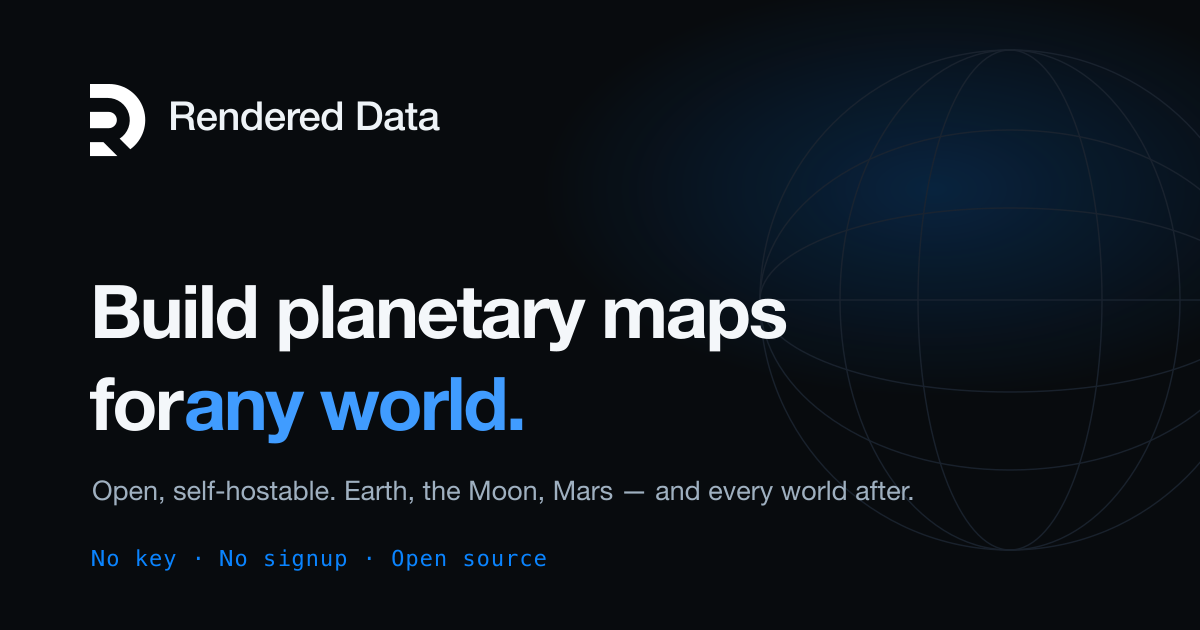
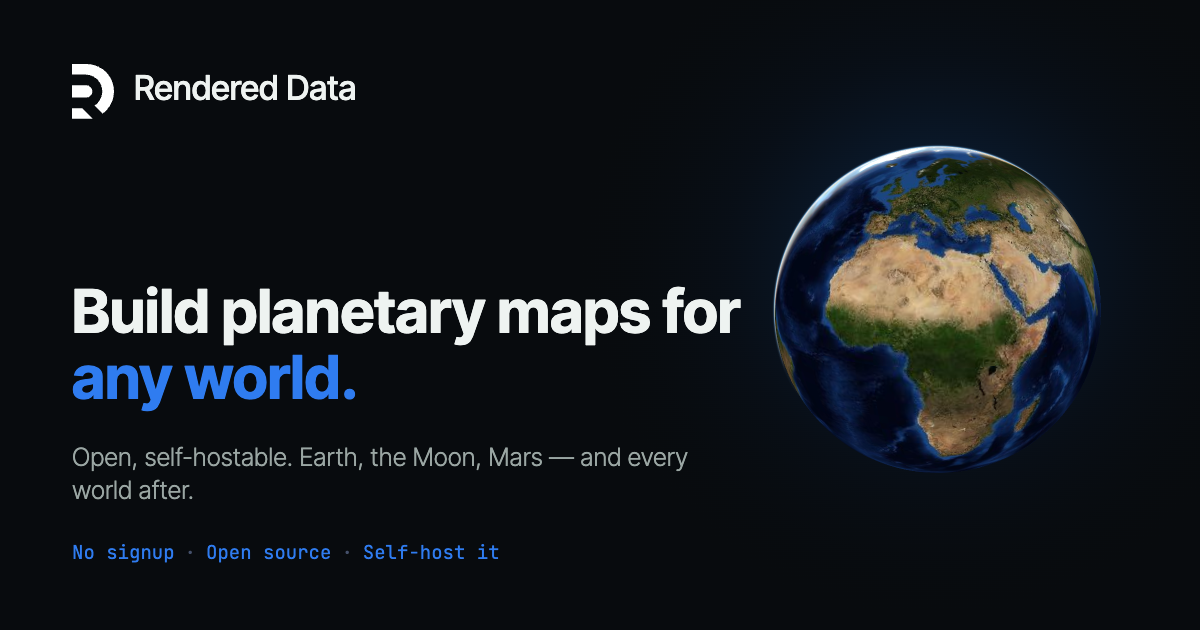
Regenerate og-image.png from updated source; track og-image.html
The social card source (og-image.html) had been edited since the PNG was
last generated, leaving the committed image stale. Re-rendered the card
in-browser (live globe + starfield composited with the DOM text/logo) and
saved the fresh 1200x630 PNG. Also add og-image.html to version control as
the canonical source for future regenerations.

diff --git a/og-image.html b/og-image.html
@@ -1,0 +1,125 @@
+<!doctype html>
+<html lang="en">
+<head>
+<meta charset="utf-8">
+<title>og-image</title>
+<style>
+  @font-face { font-family: "Inter Tight"; src: url("design/fonts/InterTight-var.woff2") format("woff2"); font-weight: 100 900; font-style: normal; font-display: block; }
+  @font-face { font-family: "JetBrains Mono"; src: url("design/fonts/JetBrainsMono-var.woff2") format("woff2"); font-weight: 100 800; font-style: normal; font-display: block; }
+  * { margin: 0; padding: 0; box-sizing: border-box; }
+  html, body { width: 1200px; height: 630px; overflow: hidden; background: #fff; }
+  .maplibregl-ctrl, .maplibregl-control-container { display: none !important; }
+  #card {
+    position: relative; width: 1200px; height: 630px; background: #080b0e; overflow: hidden;
+    font-family: "Inter Tight", system-ui, sans-serif; color: #eef3f1;
+    background-image: radial-gradient(60% 80% at 78% 42%, rgba(18,70,130,.55) 0%, rgba(10,30,60,.18) 42%, rgba(8,11,14,0) 72%);
+  }
+  #hero-globe { position: absolute; top: 120px; right: 72px; width: 380px; height: 380px; }
+  #content { position: absolute; inset: 0; padding: 64px 72px; display: flex; flex-direction: column; }
+  .brand { display: flex; align-items: center; gap: 20px; }
+  .brand svg { width: 42px; height: auto; display: block; }
+  .brand .name { font-size: 34px; font-weight: 500; letter-spacing: -.01em; }
+  h1 { margin-top: auto; font-size: 60px; line-height: 1.1; font-weight: 700; letter-spacing: -.03em; white-space: nowrap; }
+  h1 .accent { color: #2f7cf0; }
+  .lede { margin-top: 26px; font-size: 25px; font-weight: 300; color: #9aa6a3; max-width: 640px; letter-spacing: -.01em; line-height: 1.3; }
+  .foot { margin-top: 32px; font-family: "JetBrains Mono", monospace; font-size: 19px; letter-spacing: .04em; color: #2f7cf0; }
+  .foot .dot { color: #44506a; margin: 0 10px; }
+</style>
+</head>
+<body>
+<div id="card">
+  <div id="hero-globe" aria-hidden="true"></div>
+  <div id="content">
+    <div class="brand">
+      <svg viewBox="0 0 325 424" fill="#fff" aria-hidden="true"><path d="M0 0H113A212 212 0 0 1 236.973 383.973L174.332 321.332A130 130 0 0 0 104 82H0ZM0 164H110A48 48 0 0 1 110 260H0ZM0 342H79L161 424H0Z"/></svg>
+      <span class="name">Rendered Data</span>
+    </div>
+    <h1>Build planetary maps for<br><span class="accent">any world.</span></h1>
+    <p class="lede">Open, self-hostable. Earth, the Moon, Mars — and every world after.</p>
+    <p class="foot">No signup<span class="dot">·</span>Open source<span class="dot">·</span>Self-host it</p>
+  </div>
+</div>
+<script type="module">
+  import {GlobeMap} from './src/maps.js';
+  await document.fonts.ready;
+  const map = new GlobeMap({container: 'hero-globe', body: 'earth', base: 'bluemarble',
+      controls: false, background: 'transparent',
+      mapOptions: {preserveDrawingBuffer: true, canvasContextAttributes: {preserveDrawingBuffer: true}}});
+  await map.ready;
+  map.jumpTo({center: [18, 16], zoom: 1.35});
+  map.addStarfield({hotspots: false, constellations: false, grid: false, sun: false, moon: false, planets: false});
+  await new Promise(r => setTimeout(r, 1200));   // let imagery + stars settle
+  map.redraw?.(); map.maplibre?.triggerRepaint?.();
+  await new Promise(r => setTimeout(r, 400));
+
+  // Compose the finished card (globe canvas + DOM text/logo) onto a 2x canvas and expose a PNG data URL.
+  const S = 1, card = document.getElementById('card').getBoundingClientRect();
+  const cv = document.createElement('canvas'); cv.width = 1200 * S; cv.height = 630 * S;
+  const x = cv.getContext('2d'); x.scale(S, S);
+  const rel = (r) => ({x: r.left - card.left, y: r.top - card.top, w: r.width, h: r.height});
+
+  // background + glow (same as the CSS)
+  x.fillStyle = '#080b0e'; x.fillRect(0, 0, 1200, 630);
+  const g = x.createRadialGradient(0.78 * 1200, 0.42 * 630, 0, 0.78 * 1200, 0.42 * 630, 0.8 * 630);
+  g.addColorStop(0, 'rgba(18,70,130,0.55)'); g.addColorStop(0.42, 'rgba(10,30,60,0.18)'); g.addColorStop(0.72, 'rgba(8,11,14,0)');
+  x.fillStyle = g; x.fillRect(0, 0, 1200, 630);
+
+  // the live globe (and its starfield), drawn at their on-card positions
+  let globeDrawn = false;
+  for (const c of document.querySelectorAll('#hero-globe canvas')) {
+    const r = rel(c.getBoundingClientRect());
+    try { x.drawImage(c, r.x, r.y, r.w, r.h); globeDrawn = true; } catch (e) {}
+  }
+
+  // logo mark
+  const lr = rel(document.querySelector('.brand svg').getBoundingClientRect());
+  x.save(); x.translate(lr.x, lr.y); x.scale(lr.w / 325, lr.h / 424); x.fillStyle = '#fff';
+  x.fill(new Path2D('M0 0H113A212 212 0 0 1 236.973 383.973L174.332 321.332A130 130 0 0 0 104 82H0ZM0 164H110A48 48 0 0 1 110 260H0ZM0 342H79L161 424H0Z'));
+  x.restore();
+
+  // text. Block elements give one rect; multi-line elements get manual line layout.
+  // baseline within a line box = top + (lineHeight - fontSize)/2 + ascent(~0.74*fontSize)
+  x.textBaseline = 'alphabetic';
+  const setFont = (cs) => { x.font = `${cs.fontWeight} ${cs.fontSize} ${cs.fontFamily}`; };
+  const baseOf = (yTop, i, lh, fs) => yTop + i * lh + (lh - fs) / 2 + fs * 0.74;
+
+  // brand name
+  {
+    const el = document.querySelector('.brand .name'), cs = getComputedStyle(el), r = rel(el.getBoundingClientRect());
+    setFont(cs); x.fillStyle = '#eef3f1'; x.fillText('Rendered Data', r.x, r.y + r.h * 0.72);
+  }
+  // headline — two lines, per-line colour
+  {
+    const el = document.querySelector('h1'), cs = getComputedStyle(el), r = rel(el.getBoundingClientRect());
+    const fs = parseFloat(cs.fontSize), lh = parseFloat(cs.lineHeight);
+    setFont(cs);
+    x.fillStyle = '#eef3f1'; x.fillText('Build planetary maps for', r.x, baseOf(r.y, 0, lh, fs));
+    x.fillStyle = '#2f7cf0'; x.fillText('any world.', r.x, baseOf(r.y, 1, lh, fs));
+  }
+  // lede — wrap to the element's own width
+  {
+    const el = document.querySelector('.lede'), cs = getComputedStyle(el), r = rel(el.getBoundingClientRect());
+    const fs = parseFloat(cs.fontSize), lh = parseFloat(cs.lineHeight), maxW = r.w;
+    setFont(cs); x.fillStyle = cs.color;
+    const ws = 'Open, self-hostable. Earth, the Moon, Mars — and every world after.'.split(' ');
+    const lines = []; let a = '';
+    for (const w of ws) { const t = a ? a + ' ' + w : w; if (x.measureText(t).width > maxW && a) { lines.push(a); a = w; } else a = t; }
+    lines.push(a);
+    lines.forEach((ln, i) => x.fillText(ln, r.x, baseOf(r.y, i, lh, fs)));
+  }
+  // footer — mono, coloured dots
+  {
+    const el = document.querySelector('.foot'), cs = getComputedStyle(el), r = rel(el.getBoundingClientRect());
+    setFont(cs); const fy = r.y + r.h * 0.72; let fx = r.x;
+    for (const [t, col] of [['No signup', '#2f7cf0'], ['·', '#44506a'], ['Open source', '#2f7cf0'], ['·', '#44506a'], ['Self-host it', '#2f7cf0']]) {
+      const pad = t === '·' ? 10 : 0; fx += pad; x.fillStyle = col; x.fillText(t, fx, fy); fx += x.measureText(t).width + pad;
+    }
+  }
+
+  window.__ogGlobeDrawn = globeDrawn;
+  try { window.__ogPng = cv.toDataURL('image/png'); }
+  catch (e) { window.__ogError = 'toDataURL failed (tainted canvas?): ' + e.message; }
+  window.__ogReady = true;
+</script>
+</body>
+</html>
